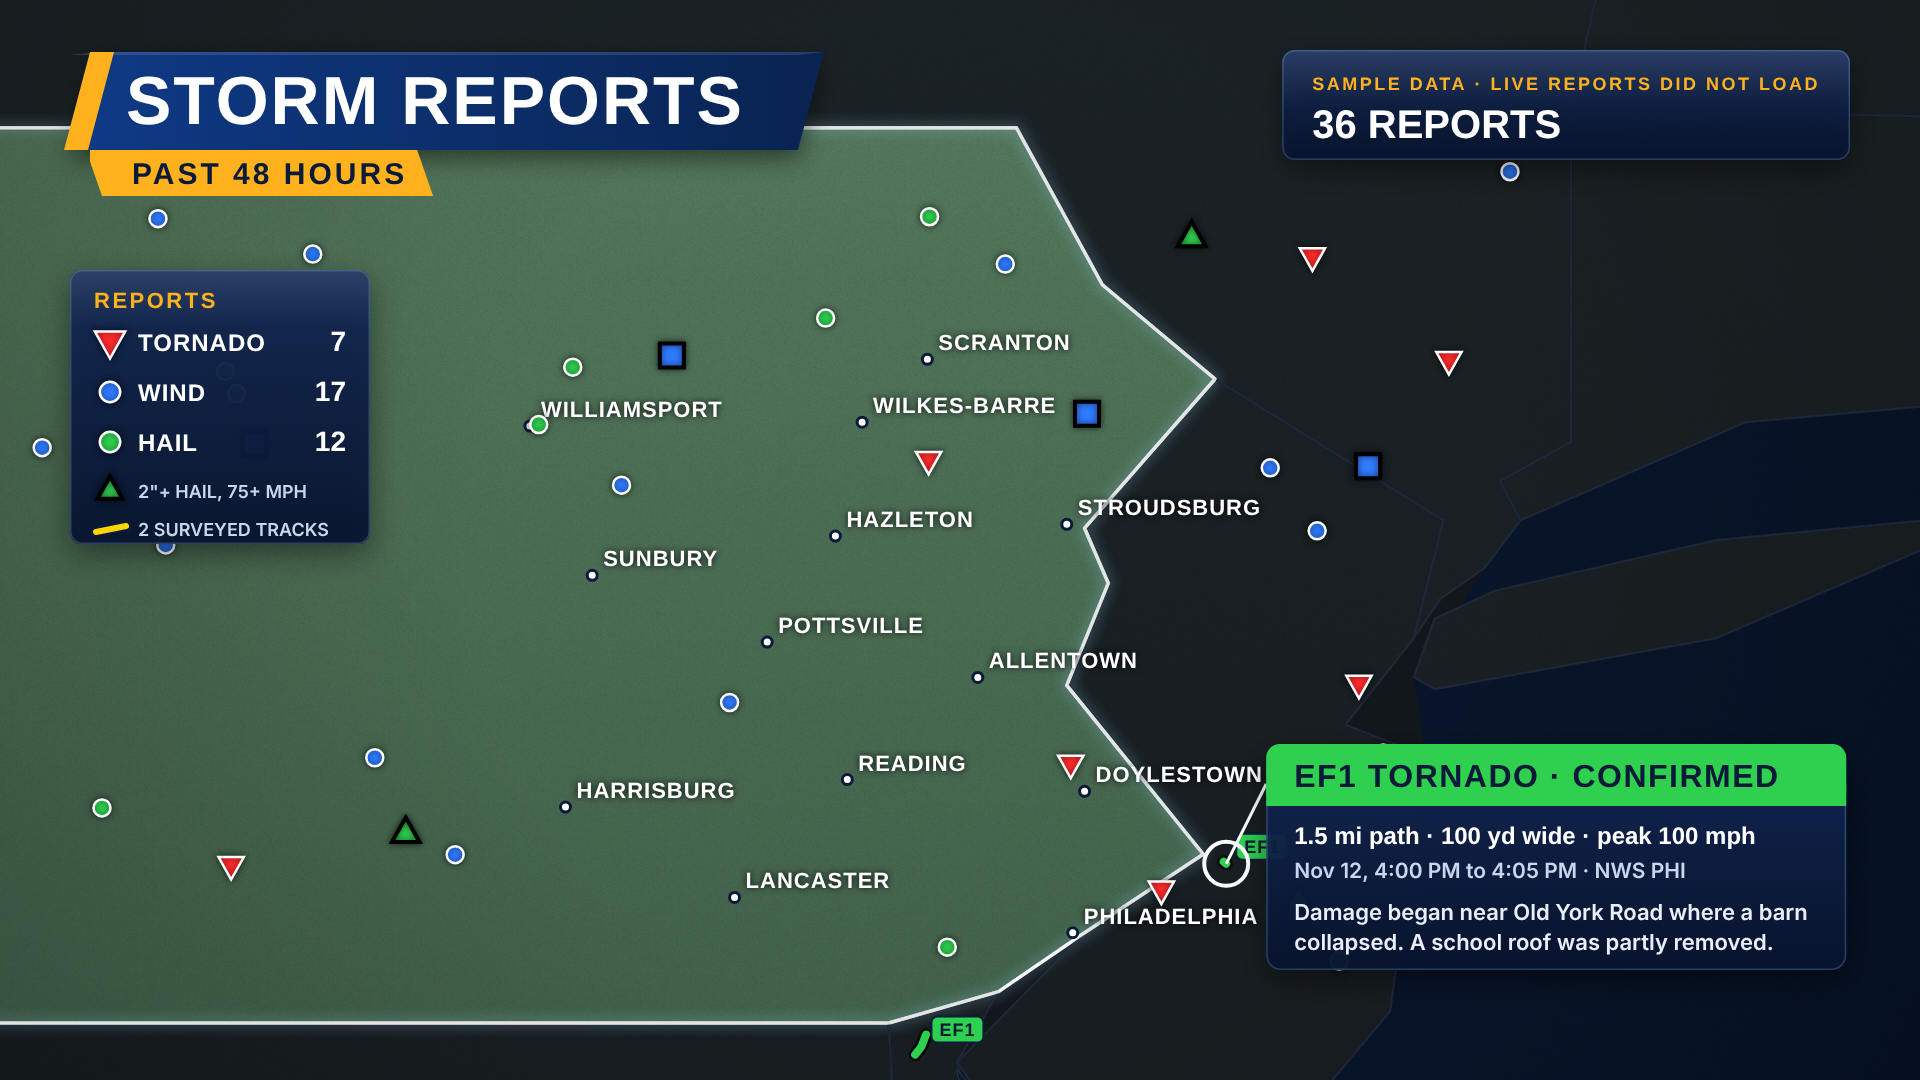
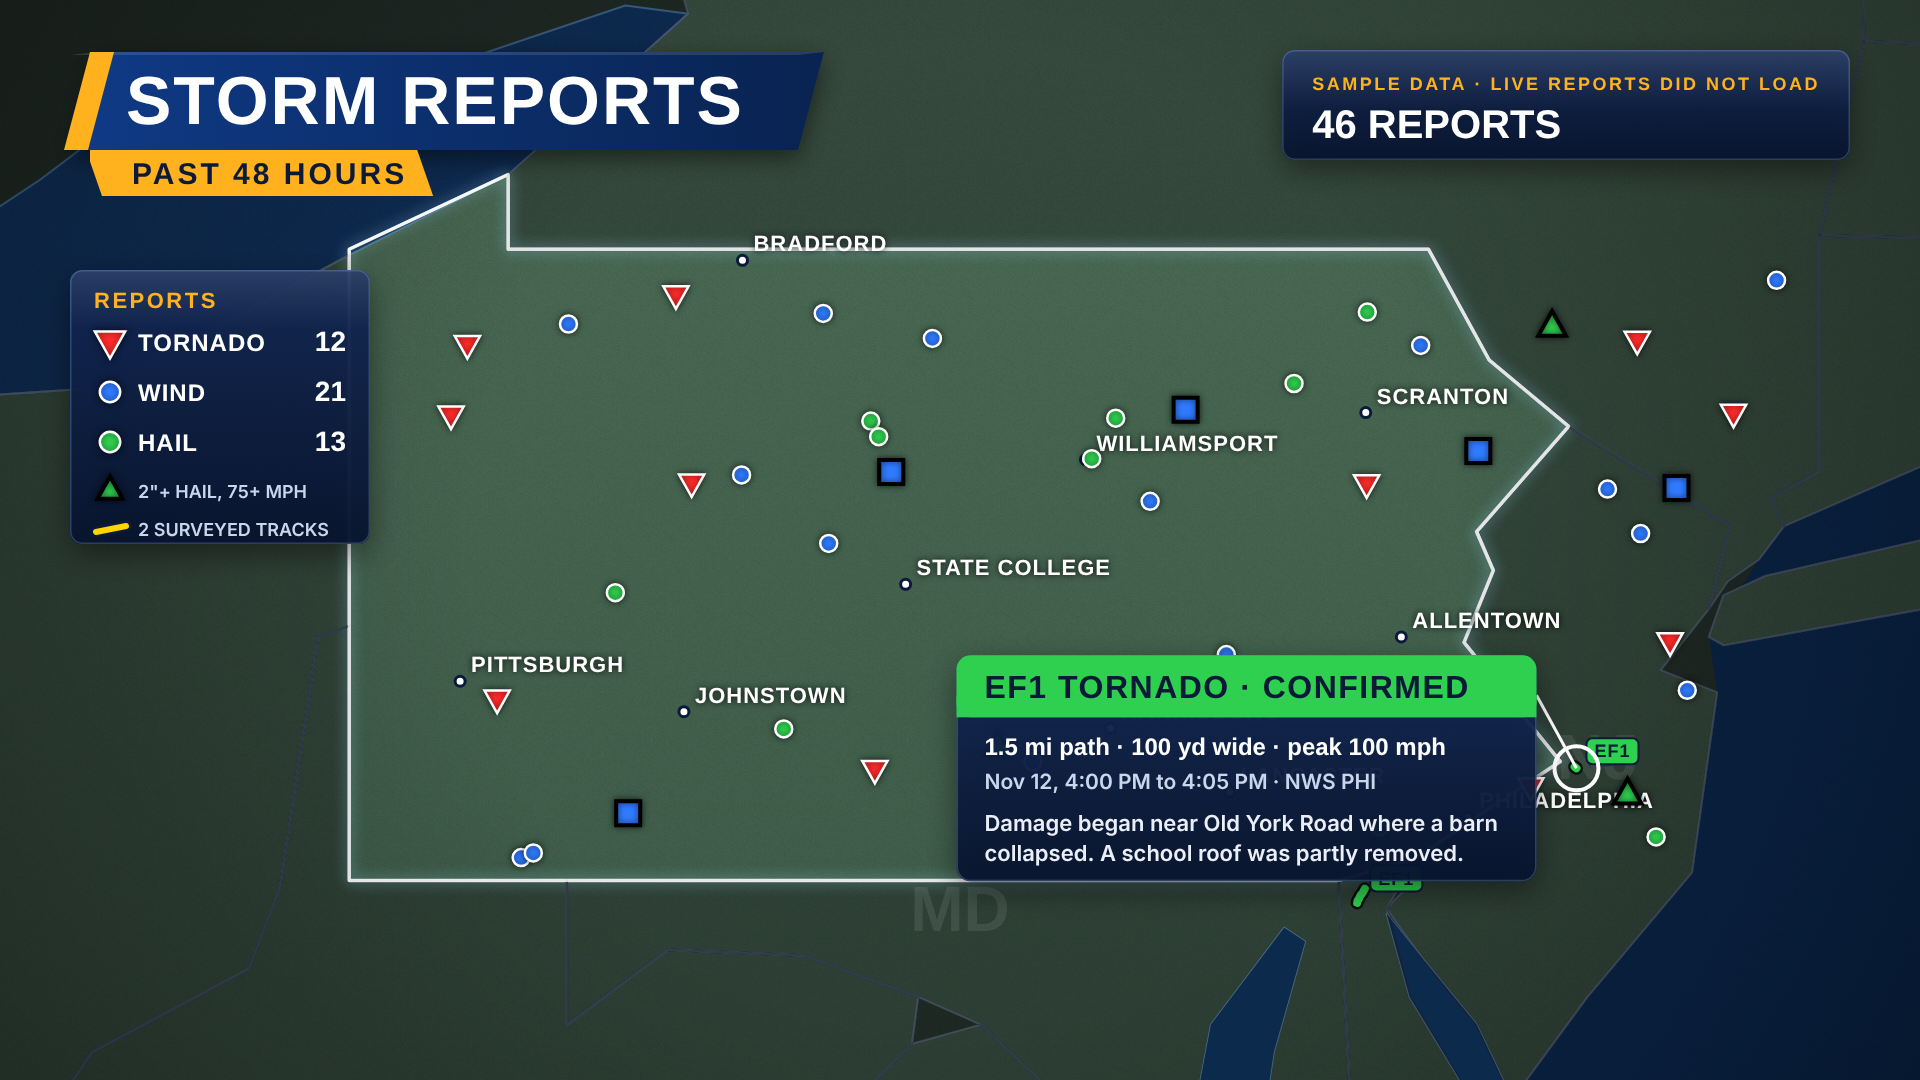
Tornado tracks: use the Toolkit's surveyed path for survey-statement tornadoes
Widen the DAT query so tracks stored by storm date are found, and match
them to survey statements so the real path replaces the straight line.

Claude-Session: https://claude.ai/code/session_01FE8V5e7DsKYQ6dWRjpq84c

diff --git a/index.html b/index.html
@@ -239,7 +239,7 @@ button.pill{cursor:pointer;background:transparent}
 <div class="status">
   <span><kbd>Space</kbd> play / stop</span><span><kbd>←</kbd><kbd>→</kbd> previous / next</span><span><kbd>V</kbd> select</span><span><kbd>T</kbd> pen</span><span><kbd>B</kbd> contour</span><span><kbd>N</kbd> total</span><span><kbd>Del</kbd> delete selection</span><span><kbd>E</kbd> export PNG</span><span><kbd>K</kbd> storm track</span><span><kbd>L</kbd> map label</span><span><kbd>1</kbd>–<kbd>9</kbd> cue</span><span><kbd>Enter</kbd> take</span>
   <span id="srcNote"></span>
-  <span id="buildTag" style="margin-left:auto;opacity:.6">Build 2026-11-14 · 26</span>
+  <span id="buildTag" style="margin-left:auto;opacity:.6">Build 2026-11-14 · 27</span>
 </div>
 <input type="file" id="fileIn" accept=".json,application/json" hidden>
 
@@ -2140,12 +2140,13 @@ async function pnsTornadoes(a,b,P){const from=new Date(a-12*3600000).toISOString
 function trkNear(A,B){const a=A.lines[0][0],b=B.lines[0][0],c=A.lines[0][A.lines[0].length-1],d=B.lines[0][B.lines[0].length-1];const dk=(p,q)=>Math.hypot((p[0]-q[0])*Math.cos(p[1]*Math.PI/180),p[1]-q[1])*111;return dk(a,b)<4||dk(c,d)<4||dk(a,d)<4||dk(c,b)<4}
 function datTracks(per,base){const key=per+'|'+base;let D=datCache[key];if(D&&(D.status==='loading'||Date.now()-D.t<600000))return D;const old=D;D=datCache[key]={status:'loading',t:Date.now(),list:old?old.list:[]};
   let[a,b]=srRange(per);a-=12*3600000;const P=proj(base),ts=x=>new Date(x).toISOString().slice(0,19).replace('T',' ');
-  const q=`where=${encodeURIComponent(`stormdate >= TIMESTAMP '${ts(a)}' AND stormdate <= TIMESTAMP '${ts(b)}'`)}&geometry=${[P.west,P.south,P.east,P.north].map(v=>v.toFixed(2)).join(',')}&geometryType=esriGeometryEnvelope&inSR=4326&spatialRel=esriSpatialRelIntersects&outSR=4326&outFields=objectid,efscale,efnum,stormdate,starttime,endtime,length,width,injuries,fatalities,wfo,maxwind,comments&returnGeometry=true&f=geojson`;
+  const q=`where=${encodeURIComponent(`stormdate >= TIMESTAMP '${ts(a-4*86400000)}' AND stormdate <= TIMESTAMP '${ts(b)}'`)}&geometry=${[P.west,P.south,P.east,P.north].map(v=>v.toFixed(2)).join(',')}&geometryType=esriGeometryEnvelope&inSR=4326&spatialRel=esriSpatialRelIntersects&outSR=4326&outFields=objectid,efscale,efnum,stormdate,starttime,endtime,length,width,injuries,fatalities,wfo,maxwind,comments&returnGeometry=true&f=geojson`;
   const datP=fetchJSON(`${DAT_URL}?${q}`,20000).then(j=>(j.features||[]).map(f=>{const p=f.properties||{};const ef=String(p.efscale||'').toUpperCase().replace(/[^A-Z0-9]/g,'');if(!/^EF[0-5U]$/.test(ef))return null;const g=f.geometry||{};
       const lines=g.type==='LineString'?[g.coordinates]:g.type==='MultiLineString'?g.coordinates:[];if(!lines.length)return null;const ms=v=>v==null||v<0?null:new Date(v);
-      return{id:'t:'+p.objectid,ef,lines,start:ms(p.starttime)||ms(p.stormdate),end:ms(p.endtime),len:p.length>0?p.length:null,wid:p.width>0?p.width:null,inj:p.injuries>0?p.injuries:0,dead:p.fatalities>0?p.fatalities:0,wfo:p.wfo||'',wind:p.maxwind>0?p.maxwind:null,remark:String(p.comments||'').trim()}}).filter(Boolean));
+      return{id:'t:'+p.objectid,ef,lines,hasT:!!ms(p.starttime),start:ms(p.starttime)||ms(p.stormdate),end:ms(p.endtime),len:p.length>0?p.length:null,wid:p.width>0?p.width:null,inj:p.injuries>0?p.injuries:0,dead:p.fatalities>0?p.fatalities:0,wfo:p.wfo||'',wind:p.maxwind>0?p.maxwind:null,remark:String(p.comments||'').trim()}}).filter(Boolean));
   Promise.allSettled([datP,pnsTornadoes(a+12*3600000,b,P)]).then(([r1,r2])=>{const dl=r1.status==='fulfilled'?r1.value:[],pl=r2.status==='fulfilled'?r2.value:[];D.nDat=dl.length;D.nPns=0;D.datOk=r1.status==='fulfilled';D.pnsOk=r2.status==='fulfilled';
-    pl.forEach(T=>{if(!dl.some(x=>trkNear(x,T))){dl.push(T);D.nPns++}});D.list=dl;if(!D.datOk&&!D.pnsOk){D.status='fail';D.t=Date.now()-480000}else{D.status='ok';D.t=Date.now()}queueThumbs();if(scene()&&['stormreports','survey'].includes(scene().type))renderInspector()}).catch(()=>{D.status='fail';D.t=Date.now()-480000;queueThumbs();if(scene()&&['stormreports','survey'].includes(scene().type))renderInspector()});return D}
+    const inWin=x=>{const s0=x.start?+x.start:0;return x.hasT?s0>=a&&s0<=b:s0+86400000>=a&&s0<=b};const keep=dl.filter(inWin);
+    pl.forEach(T=>{const m=dl.find(x=>trkNear(x,T));if(m){Object.assign(m,{name:T.name,startLoc:T.startLoc,endLoc:T.endLoc});if(!m.hasT&&T.start){m.start=T.start;m.end=T.end}['len','wid','wind'].forEach(k=>{if(m[k]==null&&T[k]!=null)m[k]=T[k]});if(!m.remark&&T.remark)m.remark=T.remark;if(!keep.includes(m))keep.push(m)}else{keep.push(T);D.nPns++}});D.nDat=keep.length-D.nPns;D.list=keep;if(!D.datOk&&!D.pnsOk){D.status='fail';D.t=Date.now()-480000}else{D.status='ok';D.t=Date.now()}queueThumbs();if(scene()&&['stormreports','survey'].includes(scene().type))renderInspector()}).catch(()=>{D.status='fail';D.t=Date.now()-480000;queueThumbs();if(scene()&&['stormreports','survey'].includes(scene().type))renderInspector()});return D}
 function drawDatTracks(g,P,list,t,o){const q=ease((t-.6)/.8);if(o.interactive)hits.stracks=[];if(q<=0)return;g.save();g.lineCap='round';g.lineJoin='round';
   list.forEach(T=>{const col=EF_COL[T.ef]||'#ffffff';const segs=T.lines.map(l=>l.map(([lo,la])=>[P.x(lo),P.y(la)]));segs.forEach(sg=>{g.globalAlpha=q;g.strokeStyle='rgba(0,0,0,.8)';g.lineWidth=13;g.beginPath();sg.forEach(([x,y],i)=>i?g.lineTo(x,y):g.moveTo(x,y));g.stroke();g.strokeStyle=col;g.lineWidth=8;g.stroke()});
     if(o.interactive)hits.stracks.push({id:T.id,segs});const sg=segs[0],m=sg[Math.floor(sg.length/2)]||sg[0];if(m&&q>.6){const f=`800 18px ${FD}`,w=measure(g,T.ef,f,1)+16;g.globalAlpha=1;g.fillStyle=col;rr(g,m[0]+10,m[1]-30,w,26,6);g.fill();g.strokeStyle='#0a1a3a';g.lineWidth=2;g.stroke();text(g,T.ef,m[0]+10+w/2,m[1]-16,f,'#0b1a38','center','middle',1)}});g.restore()}
